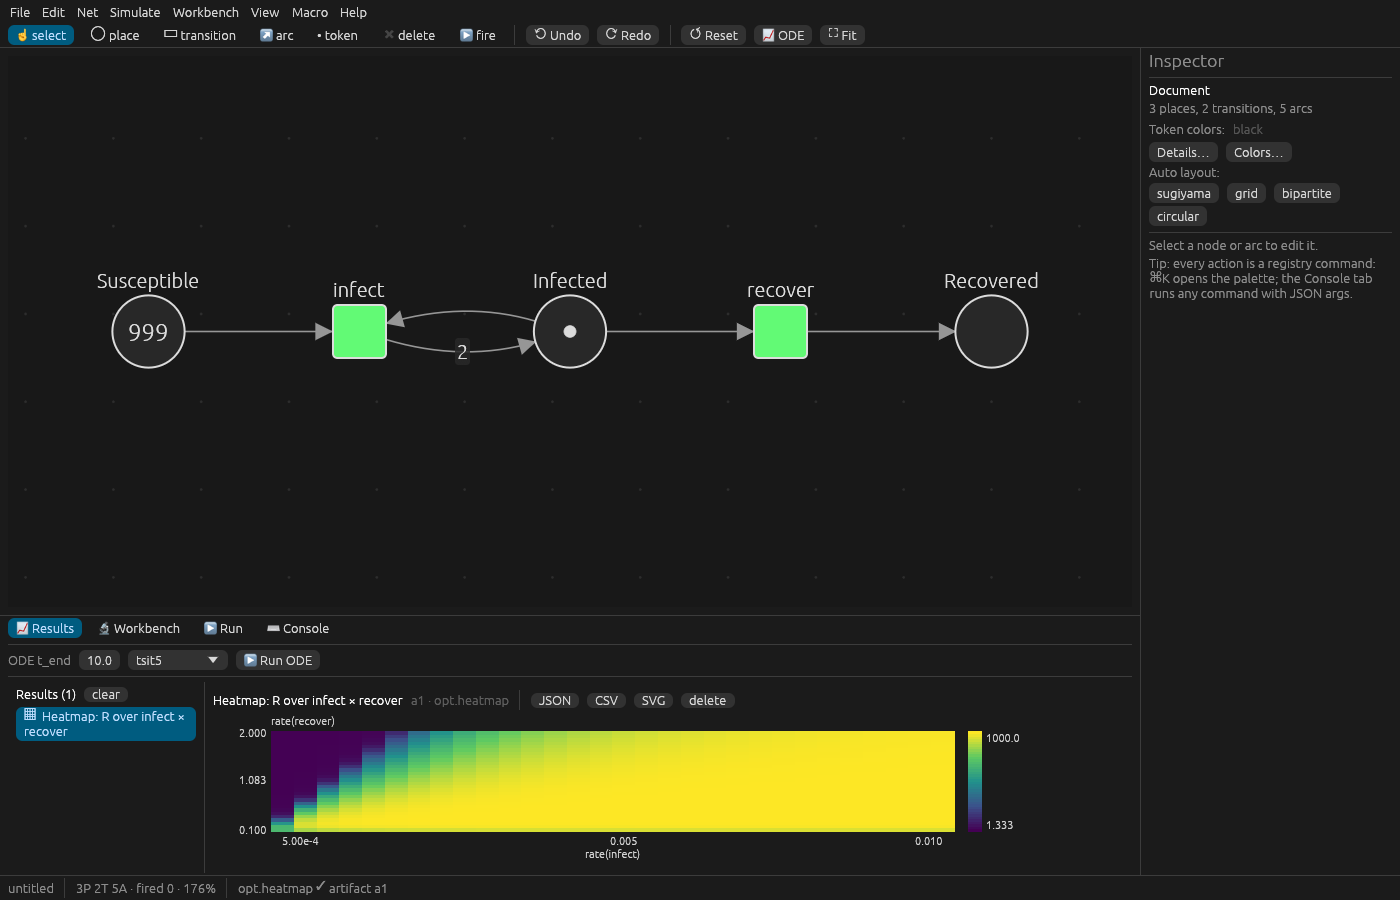
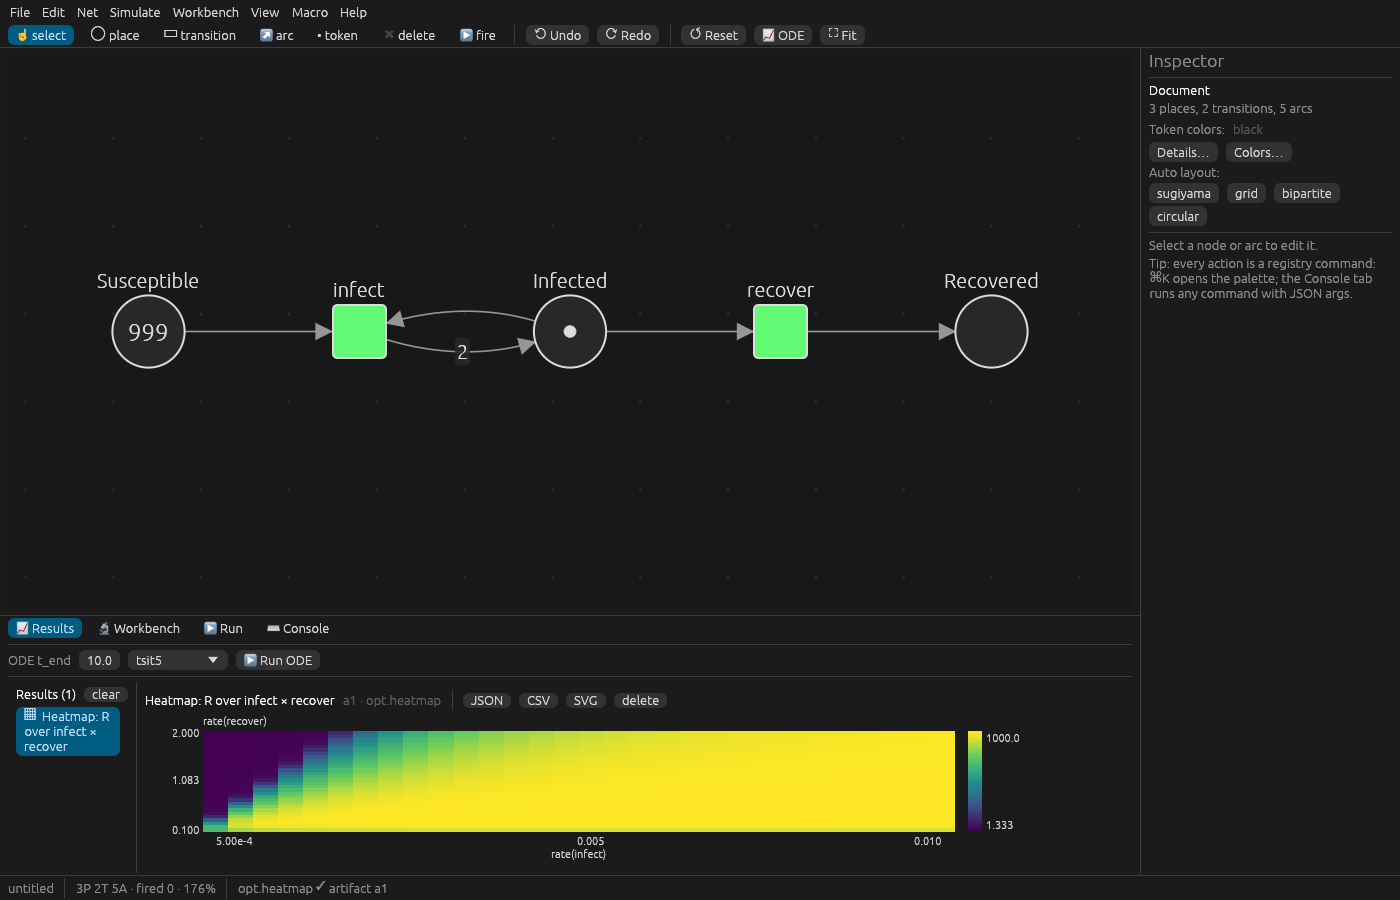
pflow-native v0.3.0: phase 3, simulation workbench
Results view polish (chart selected when a command stores several
results, integers shown as integers, bands clamped at zero for counts),
FEATURES/README for the workbench, refreshed screenshots, bump to 0.3.0.

Changed region(s): [[0.0, 0.7778, 0.43, 0.9333], [0.3993, 0.9333, 0.4607, 0.9644], [0.4914, 0.7778, 0.5221, 0.8089]]

diff --git a/crates/app/src/views.rs b/crates/app/src/views.rs
@@ -19,6 +19,15 @@ pub struct ViewState {
     pub phase_y: usize,
 }
 
+/// A JSON number: integers as integers, the rest through [`fmt`].
+pub fn fmt_json(n: &serde_json::Number) -> String {
+    match (n.as_i64(), n.as_u64()) {
+        (Some(i), _) => i.to_string(),
+        (_, Some(u)) => u.to_string(),
+        _ => n.as_f64().map(fmt).unwrap_or_else(|| n.to_string()),
+    }
+}
+
 pub fn fmt(v: f64) -> String {
     let a = v.abs();
     if a == 0.0 {
@@ -230,7 +239,12 @@ pub fn timeseries(
             [v - b, v + b]
         })
     }));
-    let yr = (yr.0.min(0.0), yr.1 * 1.04);
+    // Counts never go negative: a ± band must not drag the axis below 0.
+    let nonneg = visible
+        .iter()
+        .all(|&k| series[k].values.iter().all(|v| *v >= 0.0));
+    let lo = if nonneg { 0.0 } else { yr.0.min(0.0) };
+    let yr = (lo, yr.1 * 1.04);
     let ax = Axes {
         plot,
         x: range(x.iter().copied()),
@@ -244,8 +258,8 @@ pub fn timeseries(
             // Band as vertical quads between consecutive samples.
             for i in 1..x.len() {
                 let quad = vec![
-                    ax.to_point(x[i - 1], s.values[i - 1] - band[i - 1]),
-                    ax.to_point(x[i], s.values[i] - band[i]),
+                    ax.to_point(x[i - 1], (s.values[i - 1] - band[i - 1]).max(ax.y.0)),
+                    ax.to_point(x[i], (s.values[i] - band[i]).max(ax.y.0)),
                     ax.to_point(x[i], s.values[i] + band[i]),
                     ax.to_point(x[i - 1], s.values[i - 1] + band[i - 1]),
                 ];
@@ -603,9 +617,7 @@ pub fn table(ui: &mut egui::Ui, columns: &[String], rows: &[Vec<Value>]) {
                     for row in rows.iter().take(2000) {
                         for v in row {
                             match v {
-                                Value::Number(n) => ui.monospace(
-                                    n.as_f64().map(fmt).unwrap_or_else(|| n.to_string()),
-                                ),
+                                Value::Number(n) => ui.monospace(fmt_json(n)),
                                 Value::String(s) => ui.label(s),
                                 Value::Bool(b) => ui.label(if *b { "✔" } else { "" }),
                                 Value::Null => ui.weak("—"),
@@ -686,11 +698,7 @@ fn json_tree(ui: &mut egui::Ui, key: Option<&str>, v: &Value, depth: usize) {
                 });
         }
         Value::Number(n) => {
-            ui.monospace(format!(
-                "{}{}",
-                label(key),
-                n.as_f64().map(fmt).unwrap_or_else(|| n.to_string())
-            ));
+            ui.monospace(format!("{}{}", label(key), fmt_json(n)));
         }
         other => {
             ui.monospace(format!("{}{}", label(key), other));

diff --git a/crates/app/src/results.rs b/crates/app/src/results.rs
@@ -22,20 +22,37 @@ pub enum Mode {
 #[derive(Default)]
 pub struct ResultsState {
     pub selected: Option<String>,
-    newest_seen: Option<String>,
+    /// Artifact ids already shown in the list.
+    known: std::collections::HashSet<String>,
     mode: Mode,
     views: HashMap<String, ViewState>,
 }
 
 pub fn ui(app: &mut App, ui: &mut egui::Ui) {
-    // Follow new results.
-    let newest = app.sess.artifacts.last().map(|a| a.id.clone());
-    if newest != app.results.newest_seen {
-        if newest.is_some() {
-            app.results.selected = newest.clone();
-            app.results.mode = Mode::Chart;
-        }
-        app.results.newest_seen = newest;
+    // Follow new results. A command that stores several (a chart plus its
+    // table or report) gets its chart selected.
+    let fresh: Vec<&Artifact> = app
+        .sess
+        .artifacts
+        .iter()
+        .filter(|a| !app.results.known.contains(&a.id))
+        .collect();
+    if !fresh.is_empty() {
+        let pick = fresh
+            .iter()
+            .find(|a| {
+                matches!(
+                    a.data,
+                    ArtifactData::TimeSeries { .. }
+                        | ArtifactData::Heatmap { .. }
+                        | ArtifactData::Scatter { .. }
+                )
+            })
+            .or(fresh.last())
+            .map(|a| a.id.clone());
+        app.results.known.extend(fresh.iter().map(|a| a.id.clone()));
+        app.results.selected = pick;
+        app.results.mode = Mode::Chart;
     }
     if app
         .results

diff --git a/crates/core/src/export.rs b/crates/core/src/export.rs
@@ -517,6 +517,7 @@ fn timeseries_svg(
         })
         .fold(0.0_f64, f64::max)
         .max(1e-9);
+    // Counts never go negative; only negative data moves the axis down.
     let ymin = series
         .iter()
         .flat_map(|se| se.values.iter().copied())
@@ -539,7 +540,7 @@ fn timeseries_svg(
                 .zip(&se.values)
                 .zip(band)
                 .rev()
-                .map(|((&xv, &yv), &bv)| format!("{:.2},{:.2}", sx(xv), sy(yv - bv)))
+                .map(|((&xv, &yv), &bv)| format!("{:.2},{:.2}", sx(xv), sy((yv - bv).max(ymin))))
                 .collect();
             let _ = write!(
                 s,

diff --git a/FEATURES.md b/FEATURES.md
@@ -11,7 +11,7 @@ How to read it:
 - **Source:** where the feature lives today. `pv:` means `petri-view.js` line numbers; `sim_*` is the MCP tool name.
 - **Native:** the registry command(s) and/or the view that will carry the feature (see `ARCHITECTURE.md`).
 - **Backing:** the pflow-rs crate that does the work. **port** means pflow-rs has no equivalent yet; **remote** means it calls sim.pflow.xyz.
-- **Status:** ✅ done, 🟡 partial, blank = planned. Phase 1 shipped in v0.1.0, phase 2 in v0.2.0.
+- **Status:** ✅ done, 🟡 partial, blank = planned. Phase 1 shipped in v0.1.0, phase 2 in v0.2.0, phase 3 in v0.3.0.
 
 ## Phases
 
@@ -80,7 +80,7 @@ How to read it:
 | Place checkboxes on plot, legend toggle, hover | pv:593 | TimeSeries view; `sim.ode {places}` / `opt.rate_scan {places}` filter | app | 3 | 🟡 legend toggle + hover; places filter in core |
 | Rate scan (steady state vs rate) | pv:5268 | `opt.rate_scan {transition, from, to, steps≤25, t_end=50}` → TimeSeries(x=rate) | pflow-solver | 3 | ✅ value at t_end, as the editor (not detected equilibrium) |
 | Sweep (one place across rates) | pv:5268 | `opt.sweep {transition, place, from, to, steps≤25}` → TimeSeries overlay, group `k=<rate>` | pflow-solver | 3 | ✅ runs resampled onto one time grid |
-| Phase plot | pv:5268 | Phase view over a TimeSeries | app | 3 | |
+| Phase plot | pv:5268 | Results → Phase (any TimeSeries) | app | 3 | ✅ |
 | CSV / JSON download, "copy MCP call" | pv:5615–5620 | `export.artifact {format}`, `command.copy_call` | core | 1 | 🟡 csv/json |
 | SSA / SDE engines (library only in JS) | petri-ssa.js, petri-sde.js | `sim.ssa {t_end, seed, runs, points}`, `sim.sde {…, dt}` → TimeSeries, mean ± sd band when runs > 1 | pflow-solver ssa (portable, byte-exact) / ssa::sde | 3 | ✅ SDE refuses gated nets, as go-pflow |
 | Rate fitting (library only in JS) | petri-learn.js:1863 | `opt.fit` | pflow-learn | 5 | |
@@ -145,15 +145,15 @@ How to read it:
 | View | Fed by | Export | Phase | Status |
 |---|---|---|---|---|
 | Net graph (+ marking, enabled, overlays) | document | SVG (core), PNG (app), JSON | 1 | ✅ (overlays 4) |
-| Time series (lines; mean±sd bands; overlays) | ODE, SSA, scenario, compare, pipeline, crosscheck | CSV, JSON, SVG | 1 | ✅ lines, CSV/JSON |
-| Phase plot (X vs Y) | any TimeSeries | SVG, CSV | 3 | |
-| Heatmap | param_heatmap | CSV, JSON, SVG | 3 | 🟡 artifact + CSV/JSON (`opt.heatmap`) |
-| Scatter / Pareto | optimize | CSV, JSON | 3 | 🟡 artifact + CSV/JSON (`opt.optimize`) |
-| Matrix table (incidence, P/T invariants) | analysis | CSV, JSON | 4 | |
+| Time series (lines; mean±sd bands; overlays) | ODE, SSA, scenario, compare, pipeline, crosscheck | CSV, JSON, SVG | 1 | ✅ lines, CSV/JSON | ✅ bands, overlay groups (sweeps colored by group), hover, legend toggle; CSV/JSON/SVG 
+| Phase plot (X vs Y) | any TimeSeries | SVG, CSV | 3 | | ✅ view (export the source series as CSV) 
+| Heatmap | param_heatmap | CSV, JSON, SVG | 3 | 🟡 artifact + CSV/JSON (`opt.heatmap`) | ✅ view with color bar + hover; CSV/JSON/SVG 
+| Scatter / Pareto | optimize | CSV, JSON | 3 | 🟡 artifact + CSV/JSON (`opt.optimize`) | ✅ view with Pareto front + hover; CSV/JSON/SVG 
+| Matrix table (incidence, P/T invariants) | analysis | CSV, JSON | 4 | | 🟡 view ready (phase 4 produces the data) 
 | Reachability / coverability graph | analysis | JSON, DOT, SVG | 4 | |
 | Trace / timeline (replayable on canvas) | reach, verify, replay, token game history | JSON, CSV | 4 | |
 | Tornado / ranked bars | diagnose, evaluate | CSV | 4 | |
-| Table (conformance, calibrate, dataset) | data | CSV | 5 | |
+| Table (conformance, calibrate, dataset) | data | CSV | 5 | | ✅ generic table view (scenario/compare/evaluate tables today) 
 | System / pipeline / knowledge graph | compose, store | JSON, SVG | 6–7 | |
 | Side-by-side mapping | prove, diff | SVG | 6–7 | |
 

diff --git a/README.md b/README.md
@@ -44,6 +44,32 @@ The canvas snaps nodes to the 10-unit grid used by pflow.xyz (View → Snap to G
 
 **Content IDs.** `file.cid` computes a document's pflow.xyz CID and `file.seal` stores it as `@id`. Both use URDNA2015 → CIDv1 and are byte-identical to pflow.xyz's Go sealer on its parity goldens. Opening and saving a file keeps its CID.
 
+## Simulation workbench
+
+Results land in the **Results** tab, one view per kind:
+- time series with ± bands and overlays, plus phase-plot and Δ-table modes
+- heatmaps
+- Pareto scatters
+- tables
+- reports
+
+Each result exports as JSON, CSV or SVG. The **Workbench** tab lists every simulation command. Its forms fill transition and place arguments from what you have selected.
+
+| Command | What |
+|---|---|
+| `sim.ode` | mass-action ODE (pflow-solver); solver options, place filter, initial/final/Δ |
+| `sim.equilibrium` | integrate to steady state |
+| `sim.ssa`, `sim.sde` | Gillespie SSA / chemical Langevin, seeded, with mean ± sd over runs |
+| `sim.scenario`, `sim.compare` | sim.pflow.xyz-style what-ifs: marking/rate/schedule overrides, metrics, contention; N scenarios on one seed |
+| `sim.crosscheck` | SSA vs ODE vs conservation laws (P-invariants), with a verdict |
+| `sim.evaluate` | rank the moves enabled for a player by rollouts (games such as tic-tac-toe) |
+| `opt.rate_scan`, `opt.sweep` | pflow.xyz's Rate Scan and Sweep |
+| `opt.heatmap` | two rates on a grid, showing one place's final value |
+| `opt.optimize` | Monte-Carlo over rate ranges, with a Pareto front over objectives |
+
+![Scenario compare with ± bands](docs/screenshot-compare.png)
+![Rate heatmap](docs/screenshot-heatmap.png)
+
 ## Agents: CLI, control channel, MCP
 
 ```bash
